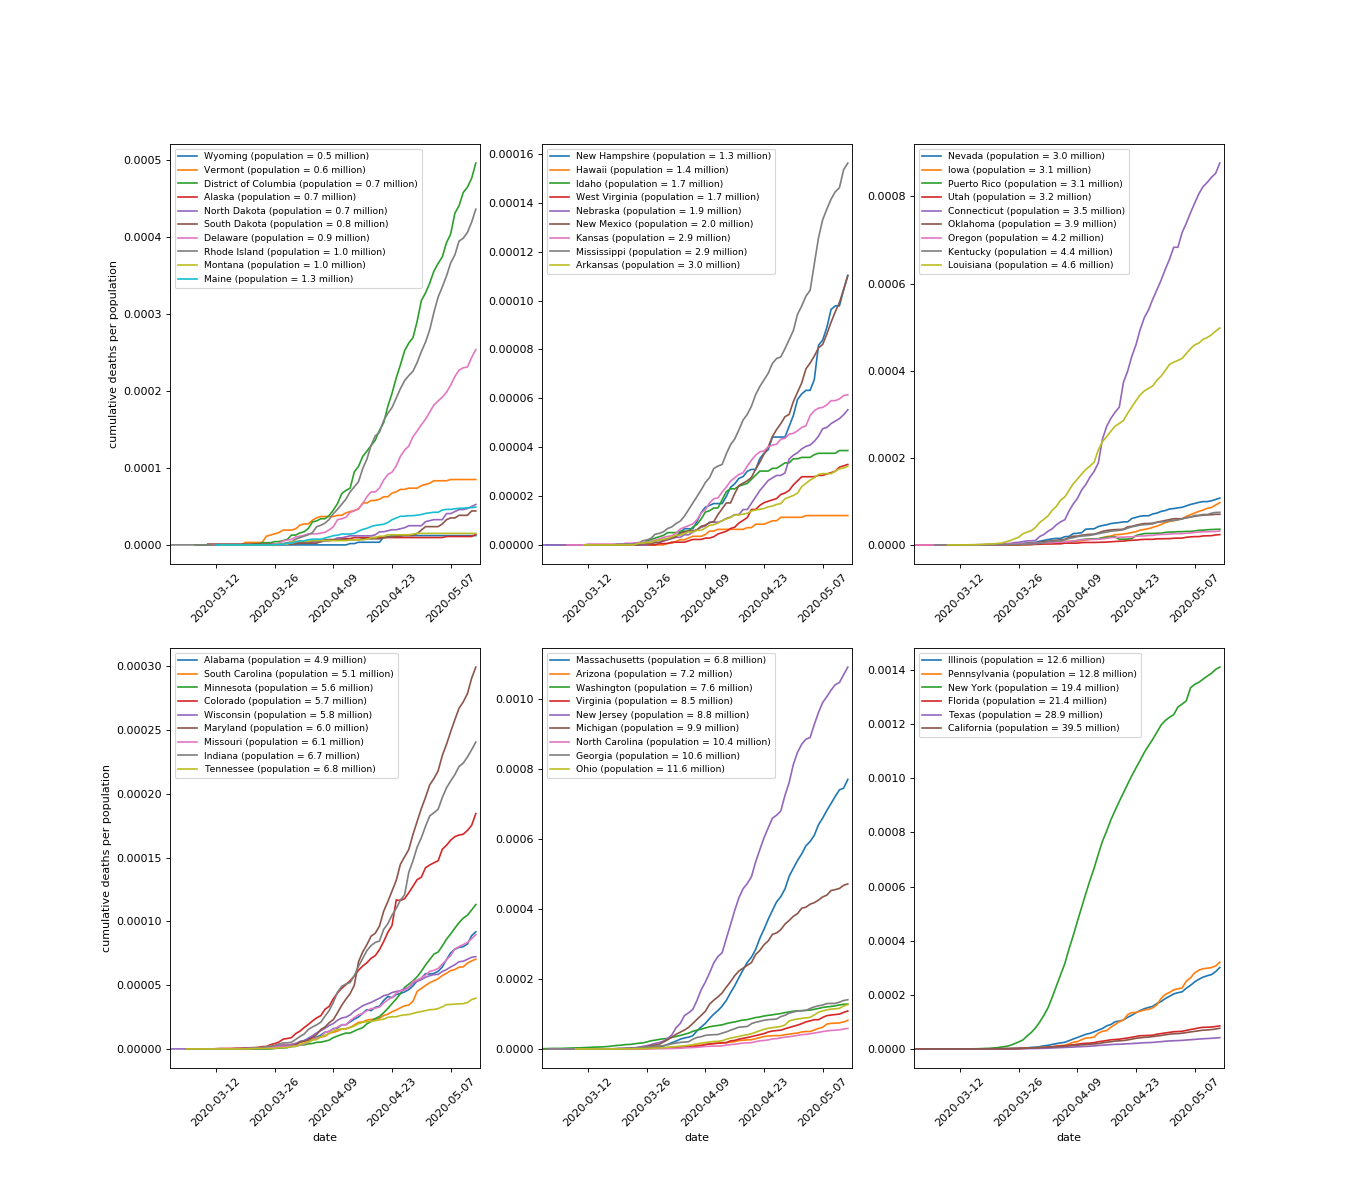
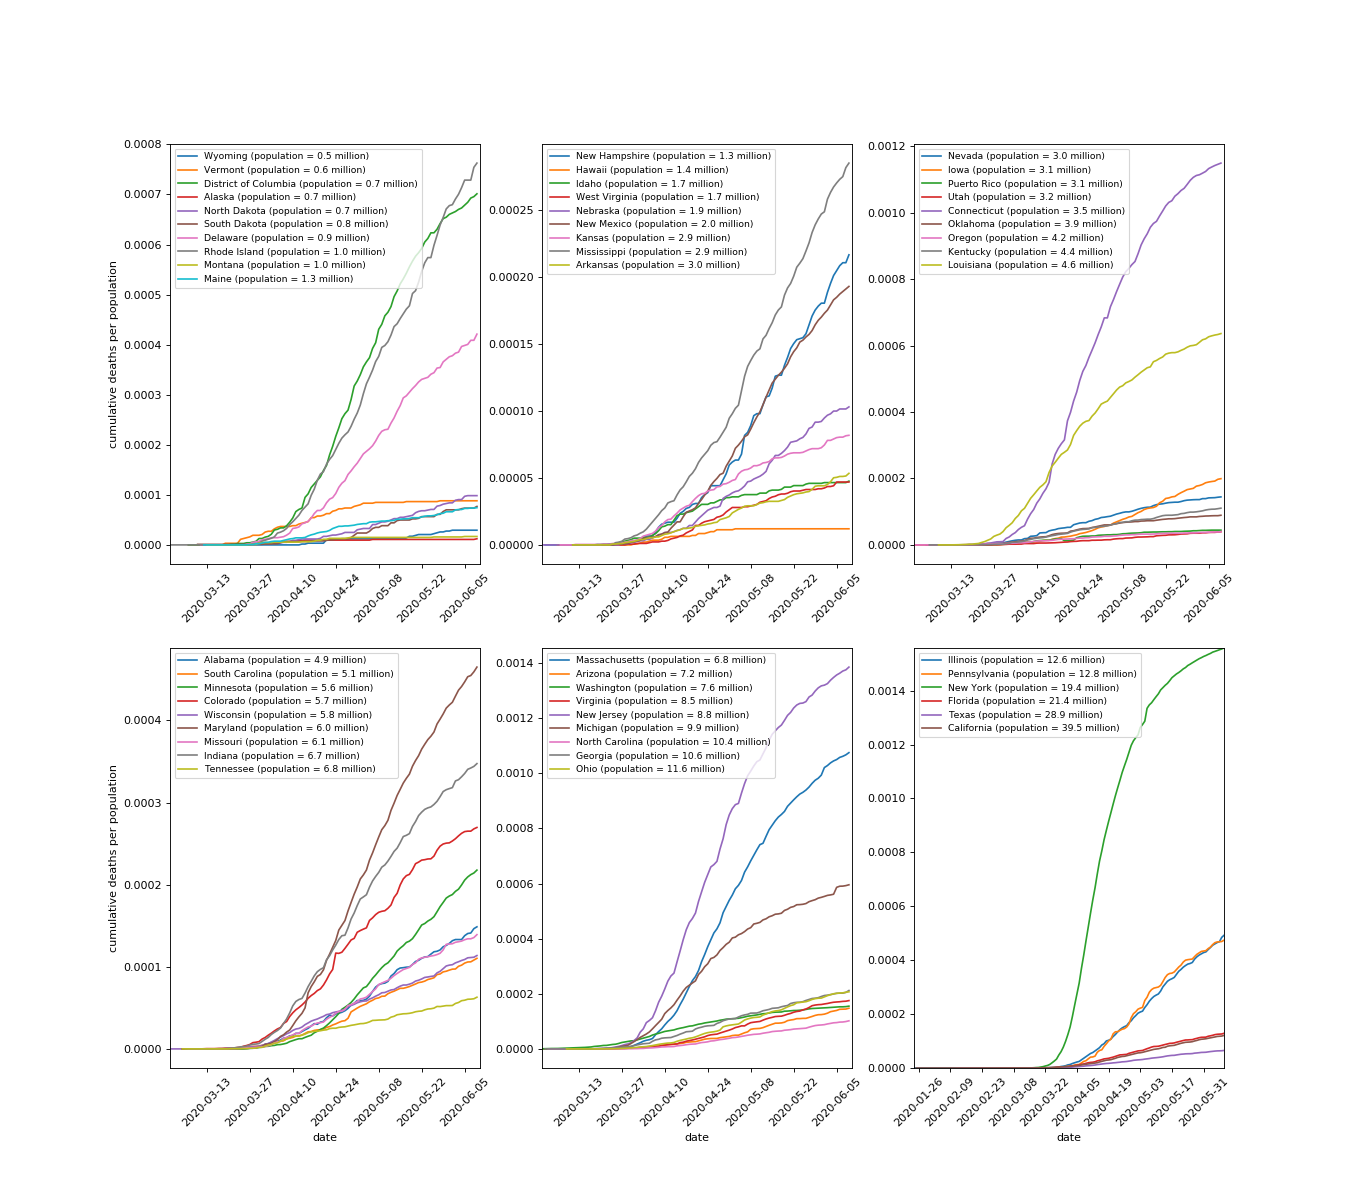
update

diff --git a/mkfigs.py b/mkfigs.py
@@ -103,6 +103,7 @@ for norm in [False, True]:
                         plt.xlabel("date")
                     if (subind%np.ceil(n/2)==1):
                         plt.ylabel(labelstring)
+                    plt.autoscale(tight=True)
                     #plt.ylim((0,ylimit))
                     
             for i in range(n):
@@ -112,4 +113,6 @@ for norm in [False, True]:
                 ax.set_xlim(left=datetime.date(2020,3,1),right=datetime.date.today())
             
             #plt.show()
+            
+            plt.autoscale(tight=True)
             plt.savefig("figures/"+labelstring+".png")
